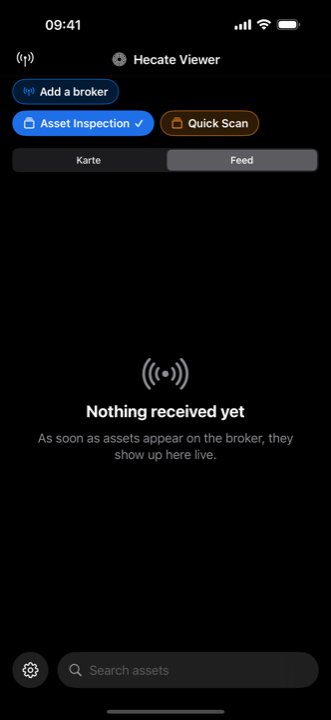
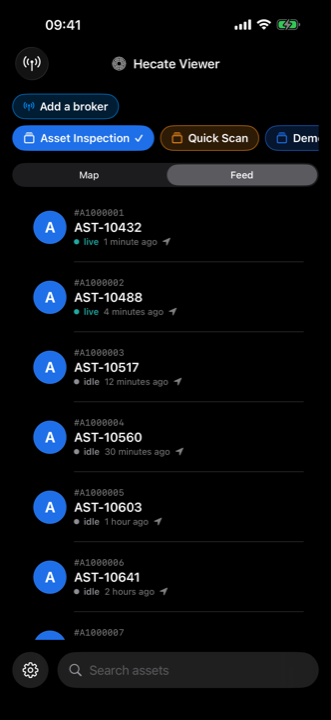
fix(screens): Viewer-Karte/Feed zeigen Assets — alle Sprachen, iPhone + iPad
Die Viewer-Screenshots (Karte, Feed, iPad-Karte) zeigten einen leeren
Live-Zustand — für eine Marketing-Seite sinnlos. Der Viewer seedet seine
Screenshots jetzt mit einem kleinen Asset-Cluster (iOS-Hecate-Viewer,
feature/screenshot-seed-assets): Karte und Feed sind gefüllt, mit frischen
(pulsierenden) und älteren Pins am Stuttgarter Charlottenplatz. Neu aufgenommen
für en·de·fr·es, iPhone 16 Pro Max UND iPad Pro 13".

sync_screenshots.py: `viewer-ipad` zog aus dem archivierten iPadOS-Repo (ADR 021,
stillgelegt). Seit die Viewer universal ist, liefert iOS-Hecate-Viewer beide
Geräte in einem Lauf; die Globs trennen jetzt per Prefix (`iPhone*` vs `iPad*`),
sodass jeder genau eine Datei matcht (das alte `*-…` matchte beide).

Nur die Viewer-Bilder — capture/admin bewusst unangetastet (admin-detail wird
separat neu aufgenommen, wenn der iOS-Tastatur-Systemprompt unterdrückt ist).

diff --git a/tools/sync_screenshots.py b/tools/sync_screenshots.py
@@ -67,10 +67,16 @@ REPOS = {
                     "docs/screenshots/{lang}", "{screen}.png"),
     "admin":       ("HECATE_ADMIN_REPO",       "iOS-Hecate-Admin",
                     "docs/screenshots/generated/{lang}", "{screen}.png"),
+    # Since ADR 021 the viewer is ONE universal app: iOS-Hecate-Viewer captures
+    # both iPhone and iPad in a single fastlane run (`docs/screenshots/appstore/
+    # {locale}/iPhone …-01_Karte.png` and `iPad …-01_Karte.png`). The iPadOS repo
+    # is archived. So both source from the iOS repo and the glob picks the device
+    # by its prefix — `iPhone*` vs `iPad*` — so each matches exactly one file
+    # (the ambiguous `*-…` matched both).
     "viewer-ios":  ("HECATE_VIEWER_IOS_REPO",  "iOS-Hecate-Viewer",
-                    "docs/screenshots/appstore/{locale}", "*-{screen}.png"),
-    "viewer-ipad": ("HECATE_VIEWER_IPAD_REPO", "iPadOS-Hecate-Viewer",
-                    "docs/screenshots/appstore/{locale}", "*-{screen}.png"),
+                    "docs/screenshots/appstore/{locale}", "iPhone*-{screen}.png"),
+    "viewer-ipad": ("HECATE_VIEWER_IPAD_REPO", "iOS-Hecate-Viewer",
+                    "docs/screenshots/appstore/{locale}", "iPad*-{screen}.png"),
 }
 
 # site image name → (app, screen id in that app's doc set)
